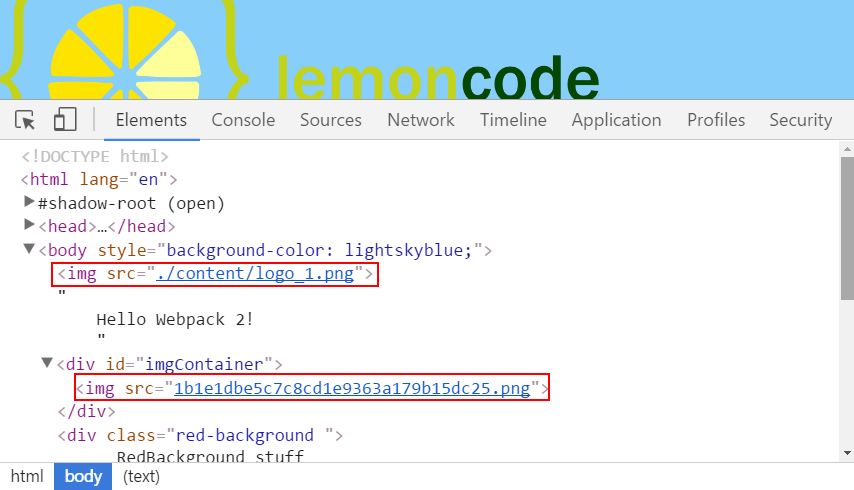
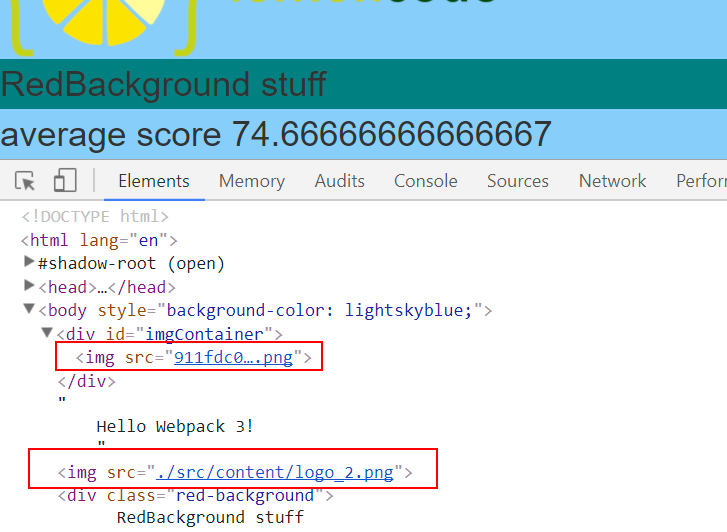
Fix 04 Handling images sample

diff --git a/01 Styles/04 Handling Images/src/index.html b/01 Styles/04 Handling Images/src/index.html
@@ -7,10 +7,10 @@
     <title>Webpack 3.x by sample</title>
   </head>
   <body>
-    <img src="./src/content/logo_1.png"/>
-    Hello Webpack 3!
     <div id="imgContainer"></div>
-    <div class="red-background ">
+    Hello Webpack 3!
+    <img src="./content/logo_2.png" />
+    <div class="red-background">
       RedBackground stuff
     </div>
   </body>

diff --git a/01 Styles/04 Handling Images/webpack.config.js b/01 Styles/04 Handling Images/webpack.config.js
@@ -74,6 +74,10 @@ module.exports = {
         exclude: /node_modules/,
         loader: 'url-loader?limit=5000',
       },
+      {
+        test: /\.html$/,
+        loader: 'html-loader',
+      },
     ],
   },
   // For development https://webpack.js.org/configuration/devtool/#for-development

diff --git a/01 Styles/04 Handling Images/src/students.js b/01 Styles/04 Handling Images/src/students.js
@@ -1,5 +1,5 @@
 import {getAvg} from "./averageService";
-import logoImg from './content/logo_2.png';
+import logoImg from './content/logo_1.png';
 
 $('body').css('background-color', 'lightSkyBlue');
 

diff --git a/01 Styles/05 Import Materialize/index.html b/01 Styles/05 Import Materialize/index.html
@@ -14,7 +14,7 @@
       </p>
     </div>
     <p>Hello Webpack 3!</p>
-    <div class="red-background ">
+    <div class="red-background">
       RedBackground stuff
     </div>
   </body>

diff --git a/01 Styles/02 Import Bootstrap/index.html b/01 Styles/02 Import Bootstrap/index.html
@@ -14,7 +14,7 @@
       </p>
     </div>
     Hello Webpack 3!
-    <div class="red-background ">
+    <div class="red-background">
       RedBackground stuff
     </div>
   </body>

diff --git a/01 Styles/03 SASS/src/index.html b/01 Styles/03 SASS/src/index.html
@@ -14,7 +14,7 @@
       </p>
     </div>
     Hello Webpack 3!
-    <div class="red-background ">
+    <div class="red-background">
       RedBackground stuff
     </div>
   </body>

diff --git a/02 Fx/00 TypeScript/src/index.html b/02 Fx/00 TypeScript/src/index.html
@@ -14,7 +14,7 @@
       </p>
     </div>
     Hello Webpack 3!
-    <div class="red-background ">
+    <div class="red-background">
       RedBackground stuff
     </div>
   </body>

diff --git a/03 Misc/01 Linting/src/index.html b/03 Misc/01 Linting/src/index.html
@@ -14,7 +14,7 @@
       </p>
     </div>
     Hello Webpack 3!
-    <div class="red-background ">
+    <div class="red-background">
       RedBackground stuff
     </div>
   </body>

diff --git a/03 Misc/05 Commons Chunk Plugin/src/index.html b/03 Misc/05 Commons Chunk Plugin/src/index.html
@@ -14,7 +14,7 @@
       </p>
     </div>
     Hello Webpack 3!
-    <div class="red-background ">
+    <div class="red-background">
       RedBackground stuff
     </div>
   </body>

diff --git a/03 Misc/10 Right pad usage/src/index.html b/03 Misc/10 Right pad usage/src/index.html
@@ -14,7 +14,7 @@
       </p>
     </div>
     Hello Webpack 3!
-    <div class="red-background ">
+    <div class="red-background">
       RedBackground stuff
     </div>
   </body>

diff --git a/01 Styles/01 Custom CSS/index.html b/01 Styles/01 Custom CSS/index.html
@@ -8,7 +8,7 @@
   </head>
   <body>
     Hello Webpack 3!
-    <div class="red-background ">
+    <div class="red-background">
       RedBackground stuff
     </div>
   </body>

diff --git a/01 Styles/04 Handling Images/README.md b/01 Styles/04 Handling Images/README.md
@@ -1,14 +1,15 @@
 # 04 Handling Images
 
 In this demo we are going to include images in our project in two flavours: via JavaScript and via HTML.
-On the HTML side we will see is quite straightforward (using the same plugins we used for fonts), but for the Javascript we will use a new configuration for the loader _url-loader_.
+On the JavaScript side we will see it's something straightforward (using the same plugins we used for fonts), for the HTML we will use a new loader: [html-loader](https://github.com/webpack-contrib/html-loader).
 
 We will start from sample _01 Styles/03 SASS_.
 
 Summary steps:
  - Add two images to our project.
- - Add first image from HTML.
- - Add second image from JavaScript.
+ - Add first image from JavaScript.
+ - Add second image from HTML.
+ - Install `html-loader`.
  - Configure the loader.
 
 # Steps to build it
@@ -25,7 +26,7 @@ You will need to have nodejs installed in your computer. If you want to follow t
 npm install
 ```
 
-- Let's start by cleaning up our *`index.html`*. We are going to remove the Bootstrap's *jumbotron* component and add a `<img>` tag:
+- Let's start by cleaning up our *`index.html`*. We are going to remove the Bootstrap's *jumbotron* component and add a `<div>` element with a given `id`:
 
 ### ./src/index.html
 ```diff
@@ -44,9 +45,9 @@ npm install
 -       Bootstrap is the most popular ...
 -     </p>
 -   </div>
-+   <img src="./src/content/logo_1.png"/>
++   <div id="imgContainer"></div>
     Hello Webpack 3!
-    <div class="red-background ">
+    <div class="red-background">
       RedBackground stuff
     </div>
   </body>
@@ -56,59 +57,13 @@ npm install
 
 - We will continue by creating a folder named **content** inside the **src** folder, and adding two images there: [logo_1](./src/content/logo_1.png) and [logo_2](./src/content/logo_2.png).
 
-- Next, we will add some styles for the images in our CSS file:
-
-### ./src/mystyles.scss
-```diff
-$blue-color: teal;
-
-.red-background {
- background-color: $blue-color;
-}
-
-+ img {
-+   display: block;
-+   width: 200px;
-+ }
-
-```
-
-- And run `npm start`. We should obtain the following result in our browser:
-
-![result logo 1](../../99%20Readme%20Resources/01%20Styles/04%20Handling%20Images/result%20logo%201.png)
-
-- That's fine but, what if we already have the image referenced from a JavaScript file and inserted into the HTML using a `<div>` element with a given `id`?
-
-### ./index.html
-```diff
-<!DOCTYPE html>
-<html lang="en">
-  <head>
-    <meta charset="utf-8">
-    <meta http-equiv="X-UA-Compatible" content="IE=edge">
-    <meta name="viewport" content="width=device-width, initial-scale=1">
-    <title>Webpack 3.x by sample</title>
-  </head>
-  <body>
-    <img src="./src/content/logo_1.png"/>
-    Hello Webpack 3!
-+   <div id="imgContainer"></div>
-    <div class="red-background ">
-      RedBackground stuff
-    </div>
-  </body>
-</html>
-
-```
-
-
-- Let's jump into *`students.js`* and import *`logo_2.png`* using JavaScript. 
+- Let's jump into *`students.js`* and import *`logo_1.png`* using JavaScript. 
 Then, let's place it under a `<div>` with a given `id`:
 
 ### ./src/students.js
 ```diff
 import {getAvg} from "./averageService";
-+ import logoImg from './content/logo_2.png';
++ import logoImg from './content/logo_1.png';
 
 $('body').css('background-color', 'lightSkyBlue');
 
@@ -152,6 +107,51 @@ module.exports = {
 
 ```
 
+- Next, we will add some styles for the images in our CSS file:
+
+### ./src/mystyles.scss
+```diff
+$blue-color: teal;
+
+.red-background {
+ background-color: $blue-color;
+}
+
++ img {
++   display: block;
++   width: 200px;
++ }
+
+```
+
+- And run `npm start`. We should obtain the following result in our browser:
+
+![result logo 1](../../99%20Readme%20Resources/01%20Styles/04%20Handling%20Images/result%20logo%201.png)
+
+- That's fine but what if we had already the image referenced inside a HTML <img> tag? Let's add logo_2.png into the index.html file:
+
+### ./index.html
+```diff
+<!DOCTYPE html>
+<html lang="en">
+  <head>
+    <meta charset="utf-8">
+    <meta http-equiv="X-UA-Compatible" content="IE=edge">
+    <meta name="viewport" content="width=device-width, initial-scale=1">
+    <title>Webpack 3.x by sample</title>
+  </head>
+  <body>
+    <div id="imgContainer"></div>
+    Hello Webpack 3!
++   <img src="./src/content/logo_2.png"/>
+    <div class="red-background">
+      RedBackground stuff
+    </div>
+  </body>
+</html>
+
+```
+
 - Now if run the app (`npm start`) we can check that both logo images are being shown.
 
 ![result logo 2](../../99%20Readme%20Resources/01%20Styles/04%20Handling%20Images/result%20logo%202.png)
@@ -159,3 +159,56 @@ module.exports = {
 - Finally, if we open the developer tools in our browser we can see that a `<img>` has been inserted under the `<div>` element, and also that its `src` attribute has changed:
 
 ![browser console](../../99%20Readme%20Resources/01%20Styles/04%20Handling%20Images/browser%20console.png)
+
+- But we are referencing `logo 2` from `./src..` path. Whats if we upload to production? We loose the reference so we need to process this kind of files using `html-loader`:
+
+```
+npm install html-loader --save-dev
+```
+
+### ./webpack.config.js
+
+```diff
+  ...
+
+  {
+    test: /\.(png|jpg)$/,
+    exclude: /node_modules/,
+    loader: 'url-loader?limit=5000',
+  },
++ {
++   test: /\.html$/,
++   loader: 'html-loader',
++ },
+...
+```
+
+- And remember that the wepback `context` is over `./src` so:
+
+### ./src/index.html
+
+```diff
+<!DOCTYPE html>
+<html lang="en">
+  <head>
+    <meta charset="utf-8">
+    <meta http-equiv="X-UA-Compatible" content="IE=edge">
+    <meta name="viewport" content="width=device-width, initial-scale=1">
+    <title>Webpack 3.x by sample</title>
+  </head>
+  <body>
+    <div id="imgContainer"></div>
+    Hello Webpack 3!
+-   <img src="./src/content/logo_2.png" />
++   <img src="./content/logo_2.png" />
+    <div class="red-background">
+      RedBackground stuff
+    </div>
+  </body>
+</html>
+
+```
+
+- We can see now that image is auto referenced:
+
+![browser console 2](../../99%20Readme%20Resources/01%20Styles/04%20Handling%20Images/browser%20console%202.png)
